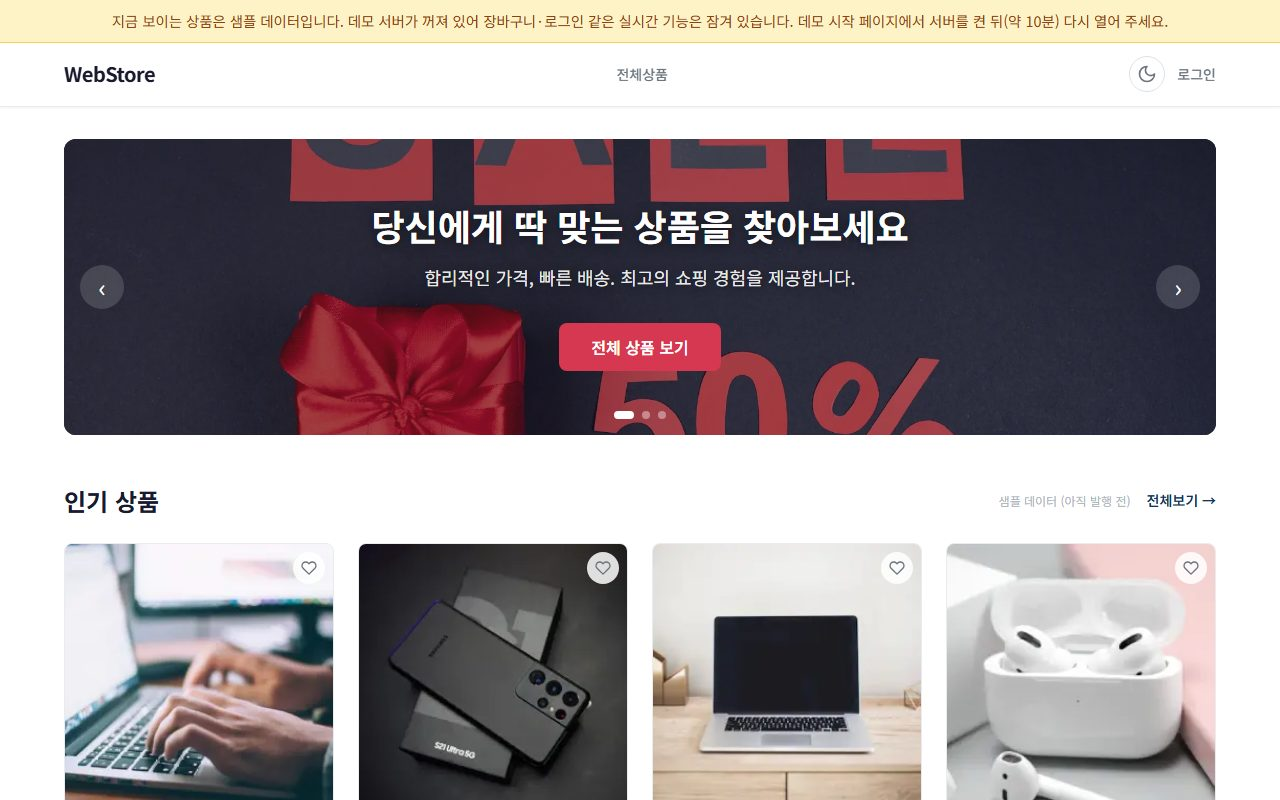
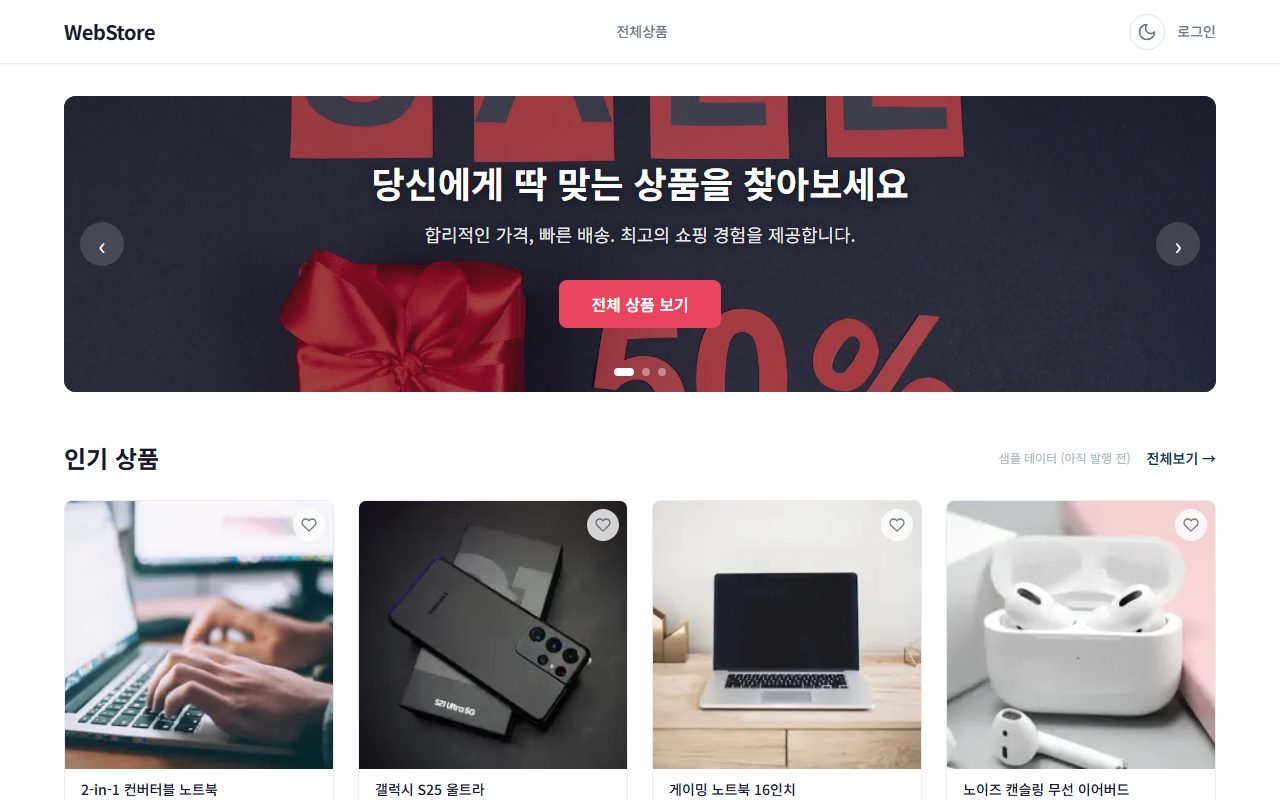
fix(demo): TASK-MONO-654 재촬영 + 645 AC-6 보강 — 배너가 사라진 썸네일을 찍었다 (#3783)
소유자가 «store-1-home 재촬영만» 으로 묶음을 명시해 승인한 창이다.

## 창 회계 — 13분 (638 → 651 / 1200)

  기동 16:10:55Z ({"bundles":["store"]}) → store ready 16:19:51Z (8분 56초)
  촬영 16:27:32Z → POST /stop 16:28:01Z → stopped 확인

지난 두 창(60분·35분)의 5분의 1이다. 묶음 하나, 사진 한 장.

## 찍힌 그림 — 전수로 열어서 봤다

배너(「데모 서버가 꺼져 있어」)가 없다. 헤더·히어로·인기 상품 4카드가 정상
렌더된다. 「샘플 데이터 (아직 발행 전)」 표기는 남아 있고 그것이 옳다 — / 는
프리렌더 라우트라 상품이 빌드 시점 저장본이고, § 제외가 그 폴백을 명시적으로
뺐다. 바뀐 것은 거짓말이 사라진 것이다.

## 🔴 웜업 술어 — 배너의 부재를 신호로 쓰면 안 된다

16:12 에 이미 탐침이 running 을 줬는데 store 묶음은 그때 booting 이었고
ready 까지 7분이 더 걸렸다. 판정은 인스턴스 상태만 보고 묶음 헬스를 안 본다
⇒ 「켜지는 중」이 「켜졌다」와 같은 화면이다. TASK-MONO-636 축의 세 번째 값이고
이 티켓 범위가 아니라 별도 티켓 후보로 적었다(창 없이 재현된다).

## AC-4 둘째 칸도 닫았다

배포 직후 Age: 0(직전 사본은 40시간)이고, 데모가 stopped 인데도 프리렌더 HTML 의
배너 문구가 0건이다 — 판정이 더는 거기서 안 내려진다. 탐침 라우트는 익명 200 ·
no-store · X-Vercel-Cache MISS.

## capture-shots.mjs --only

승인 범위가 한 장인데 스크립트는 7장을 전부 찍는다. --only 를 더하되 매니페스트를
통째로 덮지 않는다 — 안 찍은 장의 기록을 살려 찍은 장만 갈아 끼우고 순서는 정본
SHOTS 를 따른다. 1장짜리 매니페스트는 (z37)이 물고, 그 가드가 옳다.
실측: 1 updated / 6 kept · 매니페스트 7 · jpg 7 · 콘솔 두 장의 auth 메타 보존 ·
(z37) ok. 오타 방어도 넣었다(0장 찍고 rc=0 을 막는다).

## 645 AC-6 — 승계했던 런타임 행을 직접 쟀다

그 절이 「이후 창에서 그 구간을 지나면 덤으로 읽어라, 그것 때문에 창을 열 이유는
없다」고 적었다. 그 창이 다른 이유로 열렸고 기동 직후에 잡았다:
  stopped+선택됨 → selected  /  pending+선택됨 → requested  (대조군 waiting)
handler.py:424 가 예측한 값과 정확히 일치한다. 승계분 없이 닫힌다.

diff --git a/tasks/in-progress/TASK-MONO-654-the-store-serves-a-17-hour-old-health-verdict-from-a-prerendered-page.md b/tasks/in-progress/TASK-MONO-654-the-store-serves-a-17-hour-old-health-verdict-from-a-prerendered-page.md
@@ -573,3 +573,120 @@ Node 20 이라 통과한다. 다운시프트 우회는 **이미 시도됐고 안
   는 여전히 STALE 이어도 **상관없다**(판정이 더는 거기 없다 — 그 점을 확인하는 것이 요지다).
   🔴 그리고 **배포가 실제로 일어났는지 먼저** 보라: 이 PR 이 web-store 를 건드리므로 훅이
   쏘지만, 「머지 + CI 초록」은 「배포됨」이 아니다.
+
+---
+
+# 🟢🟢 AC-4 둘째 칸 — **배포 뒤 라이브로 다시 쟀다 (2026-09-11 UTC)**
+
+AC-4 가 *"🔴 배포 뒤 인스턴스를 켠 상태에서 라이브로 다시 재라. 「파일이 바뀐 것」과
+「방문자가 보는 것」은 다른 축이다"* 라고 적었다.
+
+## ① 먼저 «배포가 실제로 일어났나» 부터 — 🔴 머지 + CI 초록 ≠ 배포됨
+
+`#3781` 이 `16:00:08Z` 에 머지됐다. 그 뒤 `store /` 를 세 번 읽었다:
+
+| 시각(UTC) | `Age` | 프리렌더 HTML 의 배너 문구 |
+|---|---|---|
+| `16:02:54Z` | **0** | **0건** |
+| `16:03:42Z` | 45 | 0건 |
+| `16:04:29Z` | 92 | 0건 |
+
+🟢 **`Age: 0` 이 배포의 증거다.** 직전까지 서빙되던 사본은 `Age 144,969`(40시간)였고,
+이 티켓의 진단이 *"이 사본을 새로 만드는 유일한 사건은 **배포**"* 였다 — 그 사건이 일어났다.
+
+## ②🟢🟢 판정이 **프리렌더 사본에서 사라졌다** — 데모가 꺼져 있는데도
+
+🔴 이 측정의 요점은 «배너가 없다» 가 아니라 **«배너가 있어야 하는 상태인데 HTML 에
+없다»** 이다. 저 세 번을 읽을 때 데모는 `stopped` 였고, 그러면 **배너는 나와야 옳다.**
+그런데 프리렌더된 HTML 에는 그 문구가 **0건**이다 ⇒ 판정이 더는 거기서 내려지지 않는다.
+
+🔵 이것이 이 티켓이 고치려던 것 그 자체다. 그리고 **창이 없어도 잴 수 있는** 축이었다 —
+`Age` 가 안 풀리는 문제를 캐시로 안 고치고 **판정을 캐시 밖으로 빼서** 고쳤으므로,
+캐시가 여전히 STALE 이어도 상관없다.
+
+## ③ 탐침 라우트를 라이브로 확인 — 익명 200, 캐시 없음
+
+```
+GET https://store.hubwang.com/api/demo/backend-state
+  {"state":"unavailable"}
+  Cache-Control: no-store, no-cache, must-revalidate
+  X-Vercel-Cache: MISS        Age: 0
+  익명 요청 → status=200 (최종 URL 그대로, /login 리다이렉트 아님)
+```
+
+🟢 세 가지가 한 번에 확인된다: (a) 판정이 **방문 시점**에 내려진다(데모가 `stopped` 이므로
+`unavailable` 이 맞다) · (b) **캐시되지 않는다**(엣지에 굳으면 이 티켓이 한 층 위에서
+재발한다) · (c) **익명이 부를 수 있다** — `middleware.ts` 공개 목록이 실제로 동작한다.
+🔴 (c)가 없었으면 결함이 「배너가 낡았다」에서 **「배너가 아예 안 뜬다」로 바뀌었을** 것이고,
+그 청중이 정확히 이 배너의 대상(로그인 안 한 방문자)이다.
+
+## 🔵 남은 반쪽 — 「백엔드가 켜지면 배너가 사라지는가」
+
+위 셋은 **꺼진 쪽**을 쟀다(배너가 나와야 하고, 판정이 프리렌더에 없어야 한다).
+**켜진 쪽**(배너가 실제로 사라지는가)은 아래 § 썸네일 재촬영 창에서 같이 확인한다 —
+그 창의 목적 자체가 «배너 없는 화면을 찍는 것» 이므로, 찍힌 그림이 곧 그 측정이다.
+
+---
+
+# 🟢🟢 썸네일 재촬영 (2026-09-11 UTC · 데모 창 · 소유자 승인) — **배너가 사라졌다**
+
+이 티켓 § 「증거 추가」가 *"654 가 고쳐진 뒤 `store-1-home` 을 **재촬영**해야 한다"* 로
+남긴 의무다. 🔴 소유자 승인은 **묶음을 명시해서** 받았다: *"store-1-home 재촬영만"*.
+
+## 창 회계 — **13분**
+
+| | 값 |
+|---|---|
+| 기동 요청 | `16:10:55Z` (`{"bundles":["store"]}` — 최소 묶음) |
+| `store` **ready** | `16:19:51Z` — **부팅 8분 56초** |
+| 촬영 | `16:27:32Z` |
+| `POST /stop` | `16:28:01Z` |
+| 예산 | **638 → 651 / 1200** ⇒ **이 창 13분** (남은 549분) |
+
+🔵 지난 두 창(60분 · 35분)의 **5분의 1**이다. 묶음을 하나만 켰고 찍을 것이 한 장이었다.
+
+## 🔴 웜업 술어 — 「배너가 사라졌다」를 신호로 쓰면 안 된다
+
+`16:12:xx Z` 에 이미 탐침이 `{"state":"running"}` 을 줬다. 그때 `store` 묶음은 아직
+**`booting`** 이었다(ready 까지 **7분 더**). ⇒ **배너의 부재는 백엔드가 쓸 만하다는
+증거가 아니다.**
+
+🔵 기전: 판정은 `/status` 의 **인스턴스** 상태(+ip)만 본다 — 묶음 헬스를 안 본다
+(`@demo/backend-resolver`). 그래서 「켜지는 중」 구간에는 배너가 없다.
+🔴 이것은 이 티켓이 이름 붙인 축(`TASK-MONO-636`: 「아직 모른다」≠「꺼져 있다」)의
+**세 번째 값**이다 — 「켜지는 중」. 지금은 그것이 「켜졌다」와 같은 화면이다.
+⇒ 결함이라 부를 만하지만 **이 티켓의 범위가 아니다**(이 티켓은 «낡은 판정» 을 고쳤다).
+**별도 티켓 후보**로 여기 적어 둔다. 🔵 창을 열지 않고도 재현된다(기동 중에 탐침을 읽으면 된다).
+
+## 찍힌 그림 — **전수로 열어서 봤다**
+
+🔴 이 티켓 자신이 «묶음당 한 장 표본은 결함 있는 장을 비켜간다» 로 데인 적이 있다(그래서
+거짓 배너가 머지됐다). 이번엔 찍은 것이 **한 장**이고 그 한 장을 **열어서** 확인했다:
+
+| 축 | 결과 |
+|---|---|
+| **「데모 서버가 꺼져 있어」 배너** | 🟢 **없다** — 이 티켓의 목적 그 자체 |
+| 헤더 · 히어로 · 「인기 상품」 4카드 | 🟢 정상 렌더(상품 이미지 포함) |
+| 「샘플 데이터 (아직 발행 전)」 | 🟡 **남아 있다** — 아래 |
+
+### 🟡 「샘플 데이터」 표기는 **남는다. 그리고 그것이 옳다**
+
+`/` 는 프리렌더 라우트이고 그 상품은 **빌드 시점 저장본**이다(CI 에 백엔드가 없다).
+재생성이 착지하지 않으므로 백엔드를 켜도 그 목록은 안 바뀐다. ⇒ `DataProvenanceNotice`
+가 「샘플 데이터」라고 말하는 것은 **참**이다.
+
+🔴 그리고 이 티켓의 § 제외가 그것을 명시적으로 뺐다: *"샘플 데이터 폴백 자체 —
+`ADR-MONO-070` / `TASK-MONO-635` 가 정한 설계다. 이 티켓은 «판정이 낡았다» 만 다룬다."*
+🔵 바뀐 것은 **거짓말이 사라진 것**이다 — 전에는 「서버가 꺼져 있다」(켜져 있는데)였고,
+지금은 「샘플 데이터다」(정말 샘플이다)이다.
+
+## 🔵 `capture-shots.mjs` 에 `--only` 를 더했다
+
+승인된 범위가 **한 장**인데 스크립트는 7장을 전부 찍는다 — 나머지 여섯을 승인 없이
+갈아 끼울 수 없다. ⇒ `--only <name>` 을 더했고, 🔴 **매니페스트를 통째로 덮지 않는다**:
+안 찍은 장의 기록을 살려 찍은 장만 갈아 끼운다(순서는 정본 `SHOTS` 를 따른다).
+그러지 않으면 1장짜리 매니페스트가 남아 (z37) 이 문다 — 그리고 **그 가드가 옳다**.
+
+실측 확인: `1 updated, 6 kept` · 매니페스트 **7항목** · `.jpg` **7개** ·
+`index.html` 이 참조하는 항목 **7** · 콘솔 두 장의 `requiresAuth`/`tenant` 메타 **보존**.
+🔵 오타 방어도 넣었다(`--only store-1-hom` → 아는 이름을 나열하고 종료) — 「0장 찍고 rc=0」을 막는다.

diff --git a/tasks/in-progress/TASK-MONO-645-the-measurements-that-need-a-running-stack-and-nobody-owns.md b/tasks/in-progress/TASK-MONO-645-the-measurements-that-need-a-running-stack-and-nobody-owns.md
@@ -884,3 +884,43 @@ if instance_state != "running":
 🔴 **AC-6 이 닫혔다고 645 가 닫히는 것은 아니다.** 이 티켓에는 아직 열린 칸이 있다:
 AC-3 의 마지막 칸(«재분류가 가정에 붙어 있다» 를 어디에 남길지 — 2026-09-10 수확이
 *"아직 안 정했다"* 로 열어 뒀다)과 AC-5 네 칸. ⇒ **`done/` 으로 옮기지 않는다.**
+
+---
+
+# 🟢🟢 AC-6 § 동사별 대조 — **승계했던 런타임 행을 내 손으로 다시 쟀다 (2026-09-11 UTC)**
+
+§ 동사별 대조가 *"런타임 관측 세 행은 **승계했다** — 재측정하려면 창이 필요하다 … 이후
+창에서 그 구간을 지나게 되면 **덤으로 한 번 더 읽어 이 표의 마지막 행을 🟢 로 올려라.
+이 칸을 다시 열 이유는 그것뿐이고, 그것 때문에 창을 열 이유는 **없다**"* 라고 적었다.
+
+🔵 **그 창이 다른 이유로 열렸고**(`TASK-MONO-654` 의 썸네일 재촬영 — 소유자 승인),
+적은 그대로 **덤으로** 읽었다. 비용 0.
+
+## 실측 (이 세션, `store` 묶음 1개 기동)
+
+| 시각(UTC) | 인스턴스 | **선택된** `store` | **선택 안 된** `console-finance`(대조군) |
+|---|---|---|---|
+| `16:10:54Z` (기동 **전** baseline) | `stopped` | **`selected`** | `waiting` |
+| **`16:10:57Z`** | **`pending`** | **`requested`** | **`waiting`** |
+
+⇒ 🟢 **승계했던 세 행이 독립 표본으로 재현됐다.** 그리고 § 동사별 대조가 (1)에서 코드로
+예측한 값(`handler.py:424` — 인스턴스가 `pending` 이면 묶음은 `requested`)과 **정확히
+일치한다.** 두 출처가 독립이고 서로를 맞춘다는 판단이 실측으로 확인됐다.
+
+🟢 **대조군도 다시 비공허했다** — 같은 응답에서 선택 안 된 `console-finance` 는 `waiting`
+이지 `requested` 가 아니다. 상수를 돌려주는 것이 아니다.
+
+🟢 **양방향도 다시 갈렸다** — `stopped`+선택됨 → `selected` / `pending`+선택됨 →
+`requested`. 기동 **전** baseline 을 먼저 찍었기 때문에 이 대조가 성립한다.
+
+## 🔵 § 동사별 대조의 표를 고친다
+
+| 축 | 이전 | **지금** |
+|---|---|---|
+| 람다 분기 코드 | 🟢 직접 읽음 | 🟢 직접 읽음 |
+| 단위 테스트 | 🟢 직접 읽음 | 🟢 직접 읽음 |
+| **런타임 관측** | 🟡 **승계** | 🟢 **직접 쟀다** (위 표) |
+
+⇒ **AC-6 은 이제 승계분 없이 닫힌다.** 🔴 이 절이 AC-6 의 판정을 **바꾸지 않는다** —
+세 칸은 이미 닫혀 있었고, 바뀐 것은 «내가 직접 본 것과 물려받은 것» 의 비율이다.
+🔵 그 구분을 적어 뒀기 때문에 이 보강이 어디에 붙는지가 분명했다.
